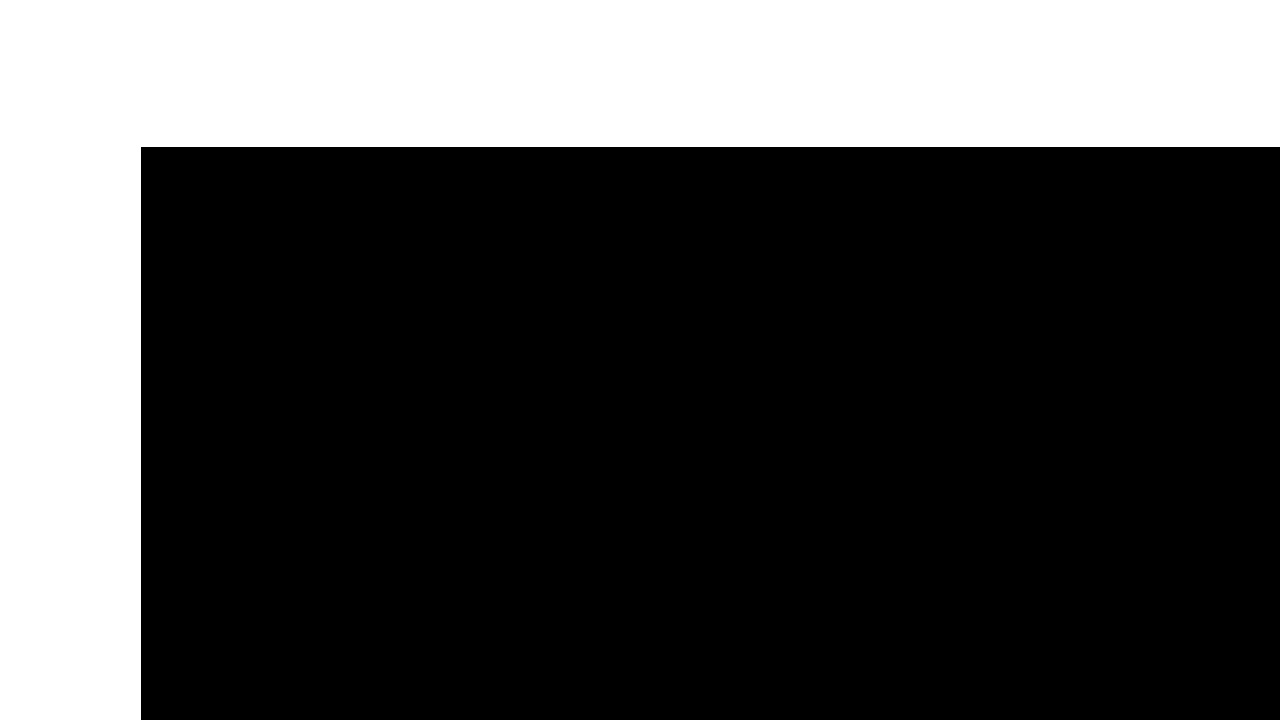
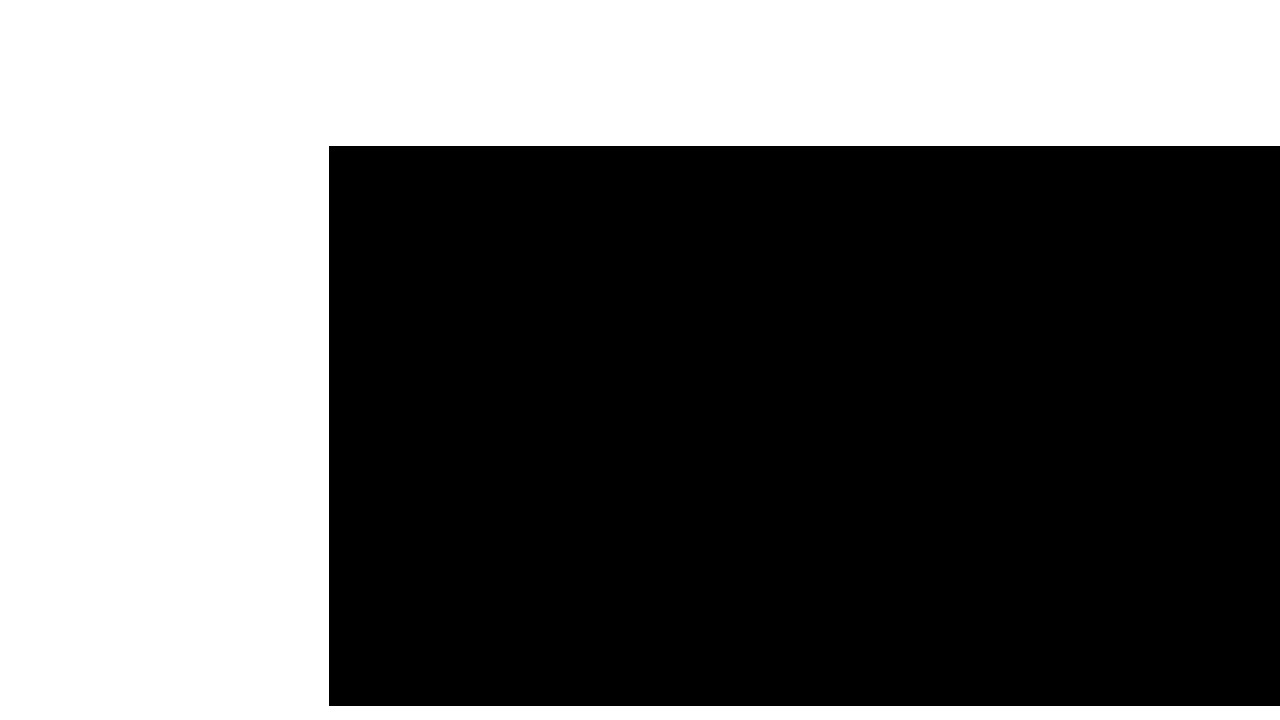
refactor

Changed region(s): [[0.0938, 0.1833, 1.0, 1.0]]

diff --git a/ide.py b/ide.py
@@ -117,10 +117,10 @@ def get_skin(self, app):
 
 	parse(app.txtField, app.txtField.palette)
 
-def calc_pos(pos):
+def calc_pos(pos, x, y):
 	px, py = pos
-	x = max((px - 145) // 10, 0)
-	y = max((py - 155) // 20, 0)
+	x = max((px - x) // 10, 0)
+	y = max((py - y) // 20, 0)
 	return x, y
 
 def copy(string):
@@ -137,7 +137,6 @@ def paste():
 	r = Tk()
 	r.withdraw()
 	res = r.clipboard_get()
-	print(res)
 	r.update()
 	r.destroy()
 	return res
@@ -375,11 +374,11 @@ class TxtField:
 		if start_y < self.start_y:
 			start_y = self.start_y
 			start_x = self.start_x
-		if end_y > self.start_y + 28:
-			end_y = self.start_y + 28
-			end_x = self.start_x + 112
+		if end_y > self.start_y + self.h:
+			end_y = self.start_y + self.h
+			end_x = self.start_x + self.w
 		start_x = max(start_x, self.start_x)
-		end_x = max(min(end_x, self.start_x + 112), self.start_x)
+		end_x = max(min(end_x, self.start_x + self.w), self.start_x)
 		span = end_y - start_y
 		if span == 0:
 			begin_sf = pygame.Surface(((end_x - start_x) * 10, 20))
@@ -389,10 +388,10 @@ class TxtField:
 			                self.y + (start_y - self.start_y) * 20 + 5)
 			return [(begin_sf, begin)]
 		elif span == 1:
-			begin_sf = pygame.Surface(((113 - start_x + self.start_x) * 10, 20))
+			begin_sf = pygame.Surface(((self.w + 1 - start_x + self.start_x) * 10, 20))
 			begin_sf.fill((120, 120, 120))
 			begin = begin_sf.get_rect()
-			begin.center = (self.x + (start_x - self.start_x) * 10 + (113 - start_x + self.start_x) * 5,
+			begin.center = (self.x + (start_x - self.start_x) * 10 + (self.w + 1 - start_x + self.start_x) * 5,
 			                self.y + (start_y - self.start_y) * 20 + 5)
 			end_sf = pygame.Surface(((end_x - self.start_x) * 10 + 5, 20))
 			end_sf.fill((120, 120, 120))
@@ -401,20 +400,20 @@ class TxtField:
 						  self.y + (end_y - self.start_y) * 20 + 5)
 			return [(begin_sf, begin), (end_sf, end)]
 		else:
-			begin_sf = pygame.Surface(((113 - start_x + self.start_x) * 10, 20))
+			begin_sf = pygame.Surface(((self.w + 1 - start_x + self.start_x) * 10, 20))
 			begin_sf.fill((120, 120, 120))
 			begin = begin_sf.get_rect()
-			begin.center = (self.x + (start_x - self.start_x) * 10 + (113 - start_x + self.start_x) * 5,
+			begin.center = (self.x + (start_x - self.start_x) * 10 + (self.w + 1 - start_x + self.start_x) * 5,
 			                self.y + (start_y - self.start_y) * 20 + 5)
 			end_sf = pygame.Surface(((end_x - self.start_x) * 10 + 5, 20))
 			end_sf.fill((120, 120, 120))
 			end = end_sf.get_rect()
 			end.center = (self.x + (end_x - self.start_x - 0.5) * 5,
 						  self.y + (end_y - self.start_y) * 20 + 5)
-			mid_sf = pygame.Surface((1140, 20 * (span - 1)))
+			mid_sf = pygame.Surface((1290 - self.x, 20 * (span - 1)))
 			mid_sf.fill((120, 120, 120))
 			mid = mid_sf.get_rect()
-			mid.center = (715, self.y + (start_y + end_y) * 10 + 5 - self.start_y * 20)
+			mid.center = (1275 - self.w * 5, self.y + (start_y + end_y) * 10 + 5 - self.start_y * 20)
 			return [(begin_sf, begin), (end_sf, end), (mid_sf, mid)]
 	def get_selection_content(self):
 		res = ''
@@ -453,15 +452,15 @@ class TxtField:
 								   self.y + (self.lineNum-self.start_y) * 20 + 5)
 		screen.blit(self.cursor.image, self.cursor.rect)
 
-		for j, line in enumerate(self.txtBuffer[self.start_y:self.start_y+28]):
-			for i, ch in enumerate(line[self.start_x:self.start_x+112]):
+		for j, line in enumerate(self.txtBuffer[self.start_y:self.start_y + self.h]):
+			for i, ch in enumerate(line[self.start_x:self.start_x + self.w]):
 				if ch[0] == '\t':
 					img = self.mono.render(' ', True, ch[1])
 				else:
 					img = self.mono.render(ch[0], True, ch[1])
 				screen.blit(img, (self.x + i * 10, j * 20 + self.y - 5))
 
-		for i in range(min(len(self.txtBuffer), 28)):
+		for i in range(min(len(self.txtBuffer), self.h)):
 			screen.blit(self.mono.render(str(i+1+self.start_y), True, (100, 100, 100)),
 						(self.x - len(str(i+self.start_y+1)) * 10 - 15, self.y + i * 20 - 5))
 	def keyUp(self, key):
@@ -476,14 +475,14 @@ class TxtField:
 		self.loc = min(self.loc, len(self.txtBuffer[self.lineNum]))
 		if self.lineNum < self.start_y:
 			self.start_y -= 1
-		elif self.lineNum > self.start_y + 27:
+		elif self.lineNum >= self.start_y + self.h:
 			self.start_y += 1
 	def change_loc(self, nloc):
 		self.loc = min(nloc, len(self.txtBuffer[self.lineNum]))
 		while self.loc < self.start_x:
 			self.start_x -= 1
 			time.sleep(.1)
-		while self.loc > self.start_x + 111:
+		while self.loc >= self.start_x + self.w:
 			self.start_x += 1
 			time.sleep(.1)
 	def goto(self, *pos):
@@ -620,22 +619,22 @@ class TxtField:
 				self.loc += 1
 		parse(self, self.palette, self.lineNum)
 	def mouseDown(self, pos, button):
-		if pos[0] < 146:
+		if pos[0] < self.x - 5:
 			self.loc = 0
 			return
-		if pos[1] < 160: return
-		x, y = calc_pos(pos)
+		if pos[1] < self.y - 1: return
+		x, y = calc_pos(pos, self.x, self.y)
 		x += self.start_x
 		y += self.start_y
 		self.goto(x, y)
-		if pos[0] >= 146 and pos[1] >= 160:
+		if pos[0] >= self.x - 5 and pos[1] >= self.y - 1:
 			self.selecting = True
 			self.selection_fixed = (self.loc, self.lineNum)
 			self.selection_branch = (self.loc, self.lineNum)
 			self.selection_start = (self.loc, self.lineNum)
 			self.selection_end = (self.loc, self.lineNum)
 	def mouseUp(self, pos, button):
-		if pos[0] >= 146 and pos[1] >= 160:
+		if pos[0] >= self.x - 5 and pos[1] >= self.y - 1:
 			self.selecting = False
 			if self.selection_fixed == self.selection_branch:
 				self.selection_fixed = ()
@@ -644,7 +643,7 @@ class TxtField:
 				self.selection_end = ()
 	def mouseMotion(self, pos):
 		if not self.selecting: return
-		try: x, y = calc_pos(pos)
+		try: x, y = calc_pos(pos, self.x, self.y)
 		except: return
 		x += self.start_x
 		y += self.start_y
@@ -661,28 +660,28 @@ class TxtField:
 
 framework = Framework()
 ide = App("res/bg.jpg")
-new_btn = Button("res/icons/new.png", "res/icons/btn_bg.bmp", 10, 10, ide.appID)
+new_btn = Button("res/icons/new.png", "res/icons/btn_bg.bmp", 320, 45, ide.appID)
 new_btn.onClick = new
 
-open_btn = Button("res/icons/open.png", "res/icons/btn_bg.bmp", 60, 10, ide.appID)
+open_btn = Button("res/icons/open.png", "res/icons/btn_bg.bmp", 370, 45, ide.appID)
 open_btn.onClick = open_file
 
-save_btn = Button("res/icons/save.png", "res/icons/btn_bg.bmp", 110, 10, ide.appID)
+save_btn = Button("res/icons/save.png", "res/icons/btn_bg.bmp", 420, 45, ide.appID)
 save_btn.onClick = save
 
-save_as_btn = Button("res/icons/save_as.png", "res/icons/btn_bg.bmp", 160, 10, ide.appID)
+save_as_btn = Button("res/icons/save_as.png", "res/icons/btn_bg.bmp", 470, 45, ide.appID)
 save_as_btn.onClick = save_as
 
-compile_btn = Button("res/icons/compile.png", "res/icons/btn_bg.bmp", 210, 10, ide.appID)
+compile_btn = Button("res/icons/compile.png", "res/icons/btn_bg.bmp", 520, 45, ide.appID)
 compile_btn.onClick = compile_cpp
 
-run_btn = Button("res/icons/run.png", "res/icons/btn_bg.bmp", 260, 10, ide.appID)
+run_btn = Button("res/icons/run.png", "res/icons/btn_bg.bmp", 570, 45, ide.appID)
 run_btn.onClick = run_cpp
 
-compile_run_btn = Button("res/icons/compile_run.png", "res/icons/btn_bg.bmp", 310, 10, ide.appID)
+compile_run_btn = Button("res/icons/compile_run.png", "res/icons/btn_bg.bmp", 620, 45, ide.appID)
 compile_run_btn.onClick = compile_run_cpp
 
-skin_btn = Button("res/icons/skin.png", "res/icons/btn_bg.bmp", 360, 10, ide.appID)
+skin_btn = Button("res/icons/skin.png", "res/icons/btn_bg.bmp", 670, 45, ide.appID)
 skin_btn.onClick = get_skin
 
 ide.addButton(new_btn)
@@ -696,7 +695,7 @@ ide.addButton(compile_run_btn)
 ide.addButton(skin_btn)
 framework.appID = ide.appID
 framework.addApp(ide)
-ide.enableTxtField(150, 160, 110, 40)
+ide.enableTxtField(340, 160, 93, 27)
 
 while True:
 	for event in pygame.event.get():
